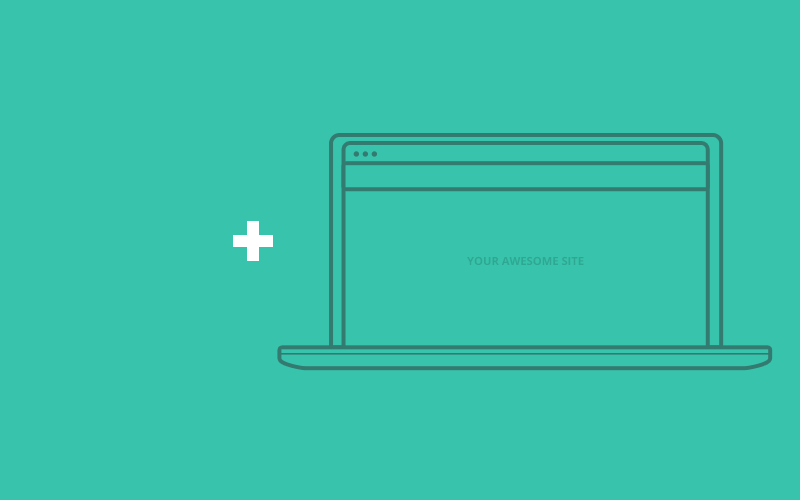
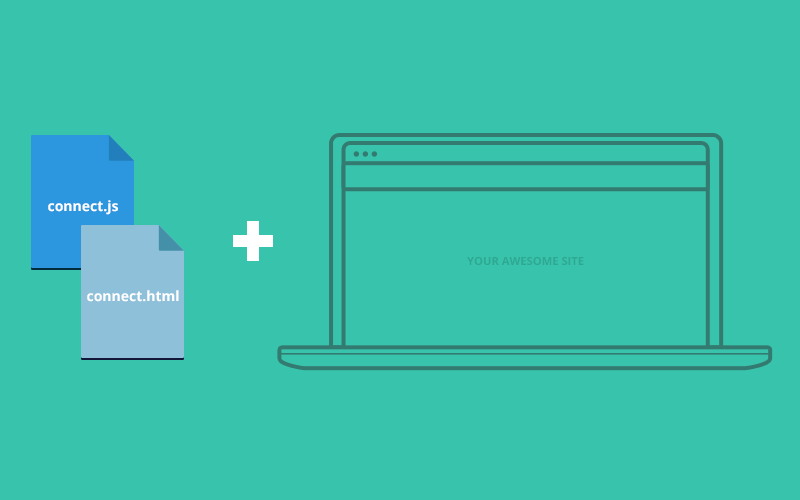
finishing the site
Made some FF specific fixes

Changed region(s): [[0.0312, 0.27, 0.25, 0.72]]

diff --git a/site/index.html b/site/index.html
@@ -64,18 +64,23 @@
                     <p class="text-left">Just copy and paste ConnectJS's JS library and HTML snippet into your site or app to give it out-of-the-box collaboration tools and features.</p>
                   </td>  
                   <td class="col-xs-6">
-                    <img src="images/towtruck-how-01-addit-file-connecthtml.png" alt="..." class="img-responsive how-section-imganim-01">
-                    <img src="images/towtruck-how-01-addit-file-connectjs.png" alt="..." class="img-responsive how-section-imganim-02">
-                    <img src="images/towtruck-how-01-addit-btn-collaborate.png" alt="..." class="img-responsive how-section-imganim-03">
-                    <p><img src="images/towtruck-how-01-addit-noplus.png" alt="..." class="img-rounded img-responsive how-section"></p>
+                    <!-- FIREFOX FIX -->
+                    <div style="position:relative;">
+                      <img src="images/towtruck-how-01-addit-file-connecthtml.png" alt="..." class="img-responsive how-section-imganim-01">
+                      <img src="images/towtruck-how-01-addit-file-connectjs.png" alt="..." class="img-responsive how-section-imganim-02">
+                      <img src="images/towtruck-how-01-addit-btn-collaborate.png" alt="..." class="img-responsive how-section-imganim-03">
+                      <p><img src="images/towtruck-how-01-addit-noplus.png" alt="..." class="img-rounded img-responsive how-section"></p>
+                    </div>
                   </td>  
                 </tr>  
                 <tr class="howto-animation-02">  
                   <td class="col-xs-6">
-                    <img src="images/towtruck-how-02-maindockpiece.png" alt="..." class="img-responsive how-section-dockplacement">
-                    <img src="images/towtruck-how-02-dock-btn-collaborate-pressed.png" alt="..." class="img-responsive how-section-btncollabpressed">
-                    <img src="images/towtruck-how-01-addit-btn-collaborate.png" alt="..." class="img-responsive how-section-btncollab">
-                    <p><img src="images/towtruck-how-02-dock.png" alt="..." class="img-rounded img-responsive how-section"></p>
+                    <div style="position:relative;">
+                      <img src="images/towtruck-how-02-maindockpiece.png" alt="..." class="img-responsive how-section-dockplacement">
+                      <img src="images/towtruck-how-02-dock-btn-collaborate-pressed.png" alt="..." class="img-responsive how-section-btncollabpressed">
+                      <img src="images/towtruck-how-01-addit-btn-collaborate.png" alt="..." class="img-responsive how-section-btncollab">
+                      <p><img src="images/towtruck-how-02-dock.png" alt="..." class="img-rounded img-responsive how-section"></p>
+                    </div>
                   </td>
                   <td class="col-xs-6" style="vertical-align:middle">
                     <h4 class="text-right">Your site is now ConnectJS enabled.</h4>
@@ -88,11 +93,13 @@
                     <p class="text-left">Your users can send a unique ConnectJS url to a friend.  When the friend opens the link, each user sees the same page and can interact with it together in real time.</p>
                   </td>  
                   <td class="col-xs-6">
-                    <img src="images/towtruck-how-03-cursor1.png" alt="..." class="img-responsive cursor-placement-01">
-                    <img src="images/towtruck-how-03-cursor2.png" alt="..." class="img-responsive cursor-placement-02">
-                    <img src="images/towtruck-how-03-cursor1.png" alt="..." class="img-responsive cursor-placement-03">
-                    <img src="images/towtruck-how-03-cursor2.png" alt="..." class="img-responsive cursor-placement-04">
-                    <p><img src="images/towtruck-how-03-collaborate.png" alt="..." class="img-rounded img-responsive how-section"></p>
+                    <div style="position:relative;">
+                      <img src="images/towtruck-how-03-cursor1.png" alt="..." class="img-responsive cursor-placement-01">
+                      <img src="images/towtruck-how-03-cursor2.png" alt="..." class="img-responsive cursor-placement-02">
+                      <img src="images/towtruck-how-03-cursor1.png" alt="..." class="img-responsive cursor-placement-03">
+                      <img src="images/towtruck-how-03-cursor2.png" alt="..." class="img-responsive cursor-placement-04">
+                      <p><img src="images/towtruck-how-03-collaborate.png" alt="..." class="img-rounded img-responsive how-section"></p>
+                    </div>
                   </td>  
                 </tr>
               </tbody>  

diff --git a/site/js/how-animations.js b/site/js/how-animations.js
@@ -31,13 +31,13 @@
           
           // 1. Add ConnectJS Javascript and HTML to your site.
           $('.how-section-imganim-01').animate({
-            left: "350"
+            left: "60%"
           }, 800).animate({
               opacity: "0"
             }, 800);
             
           $('.how-section-imganim-02').animate({
-            left: "350"
+            left: "60%"
           }, 800).animate({
               opacity: "0"
             }, 800).queue(function(){ 
@@ -54,29 +54,29 @@
           setTimeout(function() {
             $(".how-section-dockplacement").fadeIn();     
           }, 1000);        
-        }, { offset: 400, triggerOnce: true });
+        }, { offset: 200, triggerOnce: true });
         
         // 3. Your site is now ConnectJS enabled.        
         $('.howto-animation-03').waypoint(function() {
           
           $('.cursor-placement-01').animate({
-            left: "-=15"
+            left: "-=10%"
           }, 800);
           $('.cursor-placement-03').animate({
-            left: "-=30"
+            left: "-=25%"
           }, 800);
           setTimeout(function() {
              $('.cursor-placement-02').animate({
-               top: "-=40"
+               top: "-=13%"
              }, 800);
              $('.cursor-placement-04').animate({
-               top: "-=15"
+               top: "-=5%"
              }, 800);  
                
            }, 1000);
           
           console.log("animation 3");
-        }, { offset: 500, triggerOnce: true });
+        }, { offset: 200, triggerOnce: true });
           
     })
 }(window.jQuery)

diff --git a/site/css/style.css b/site/css/style.css
@@ -321,6 +321,9 @@ h4 {
   margin: 0 auto;
 }
 
+#howto-table {
+  position: relative;
+}
 
 #howto-table td {
   border-top: 0px;
@@ -648,6 +651,53 @@ h4 {
   
   a#tabzilla {
     display: none;
+  }
+  
+  .how-section-imganim-01 {
+    top: 26%;
+  }
+
+  .how-section-imganim-02 {
+    top: 16%;
+  }
+  
+  .how-section-imganim-03 {
+    top: 20%;
+  }
+  
+  .how-section-btncollab {
+    top: 22%;
+    left: 22%;
+  }
+
+  .how-section-btncollabpressed {
+    top: 22%;
+    left: 22%;
+  }
+
+  .how-section-dockplacement {
+    top: 18%;
+    left: 50%;
+  }
+  
+  .cursor-placement-01 {
+    top: 13%;
+    left: 78%;
+  }
+
+  .cursor-placement-04 {
+    top: 17%;
+    left: 69%;
+  }
+
+  .cursor-placement-02 {
+    top: 32%;
+    left: 42%;
+  }
+
+  .cursor-placement-03 {
+    top: 25%;
+    left: 50%;
   }
   
 }

diff --git a/site/js/custom.js b/site/js/custom.js
@@ -1,6 +1,6 @@
 !function ($) {
     $(function(){
-        
+
         // hero image swap
         $("img.swap1")
              .mouseover(function() { 
